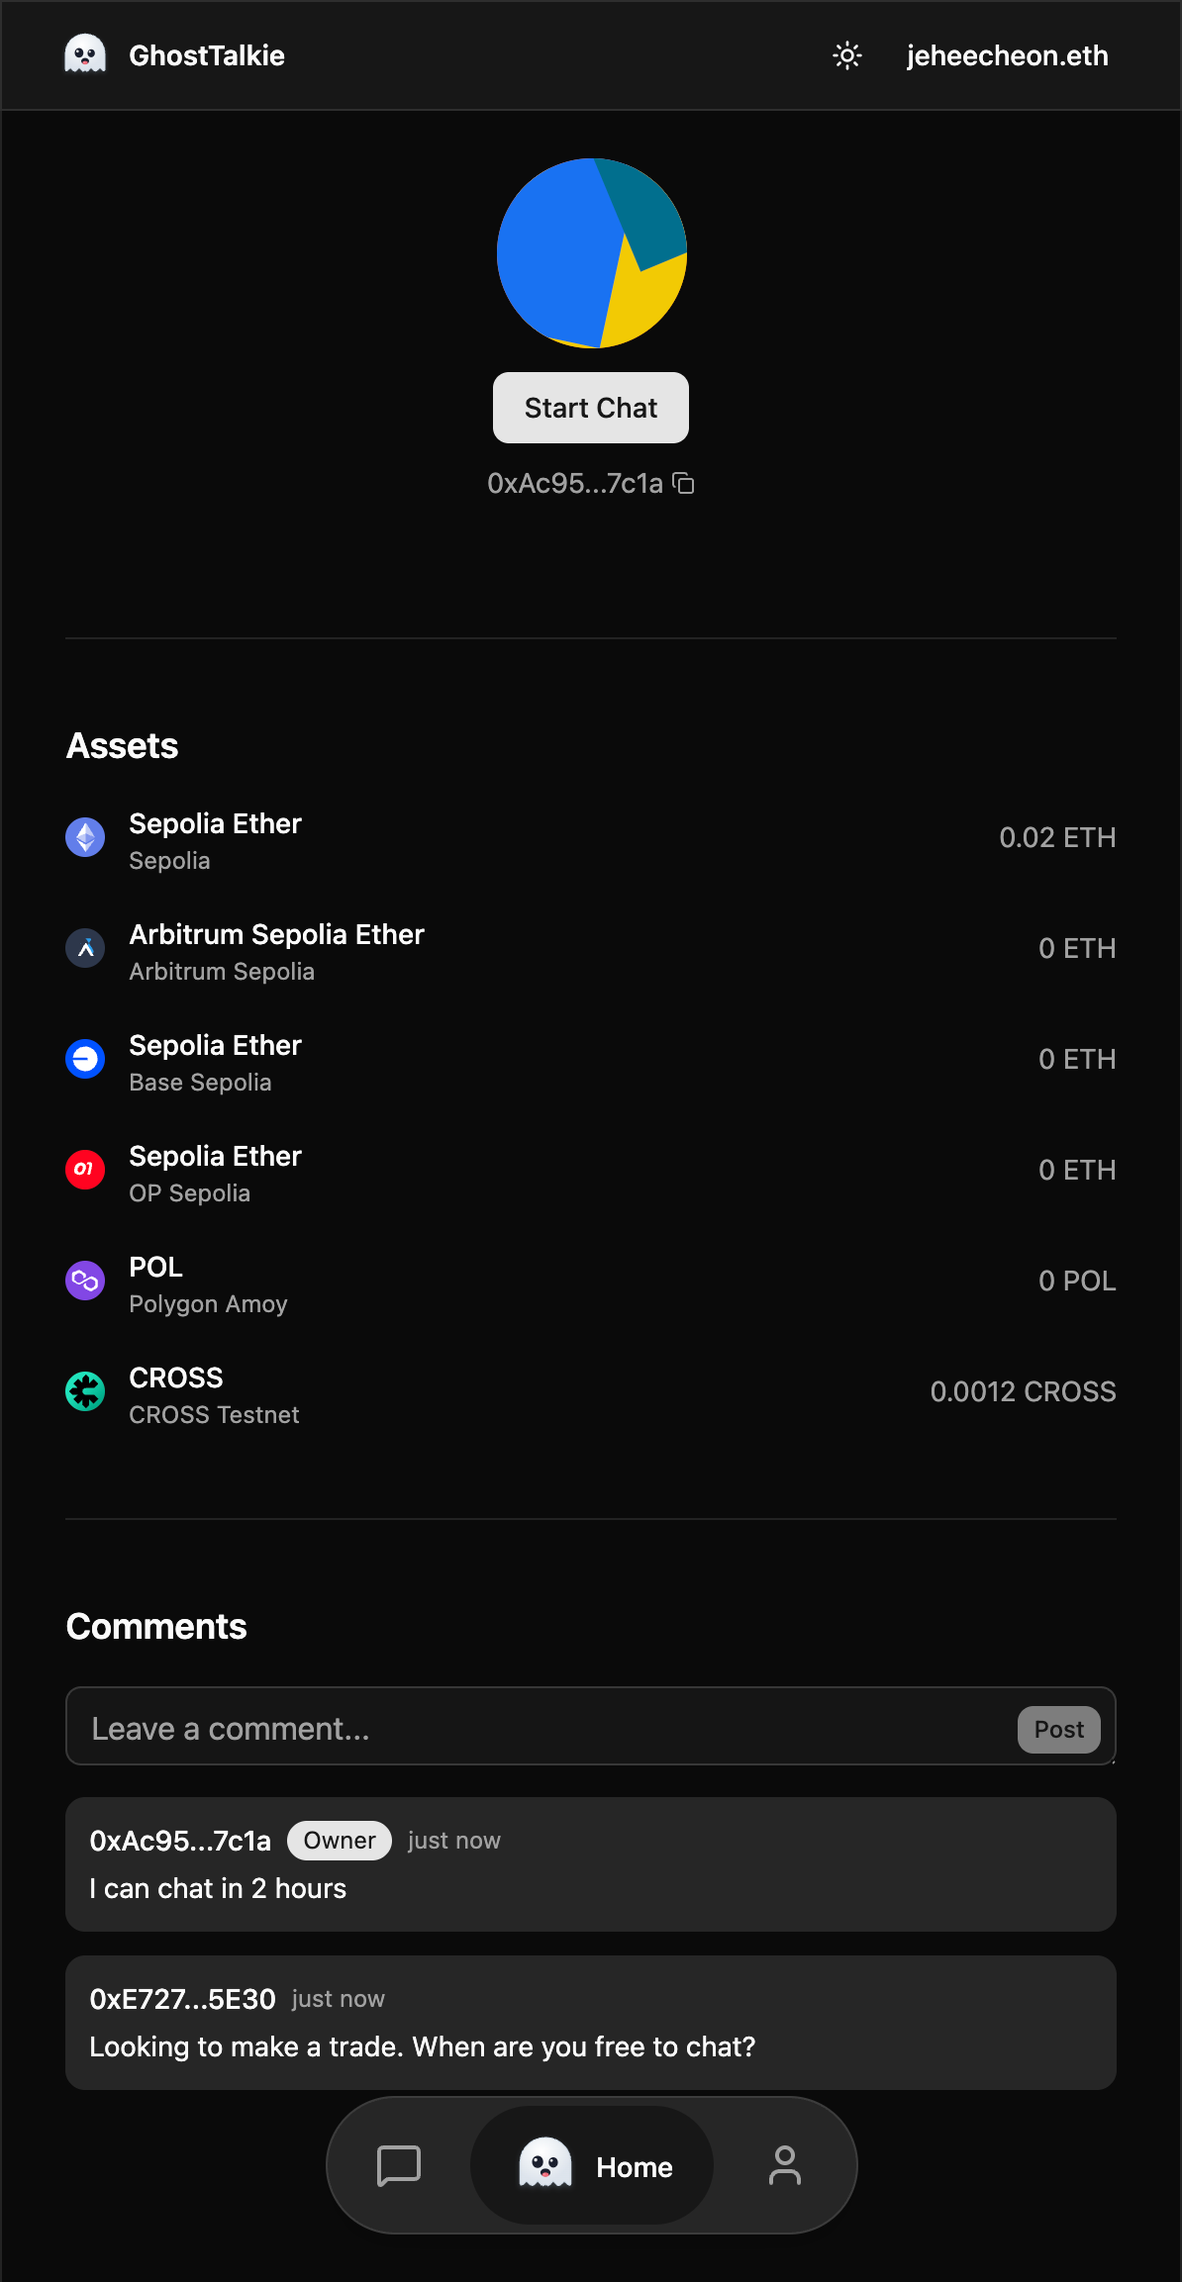
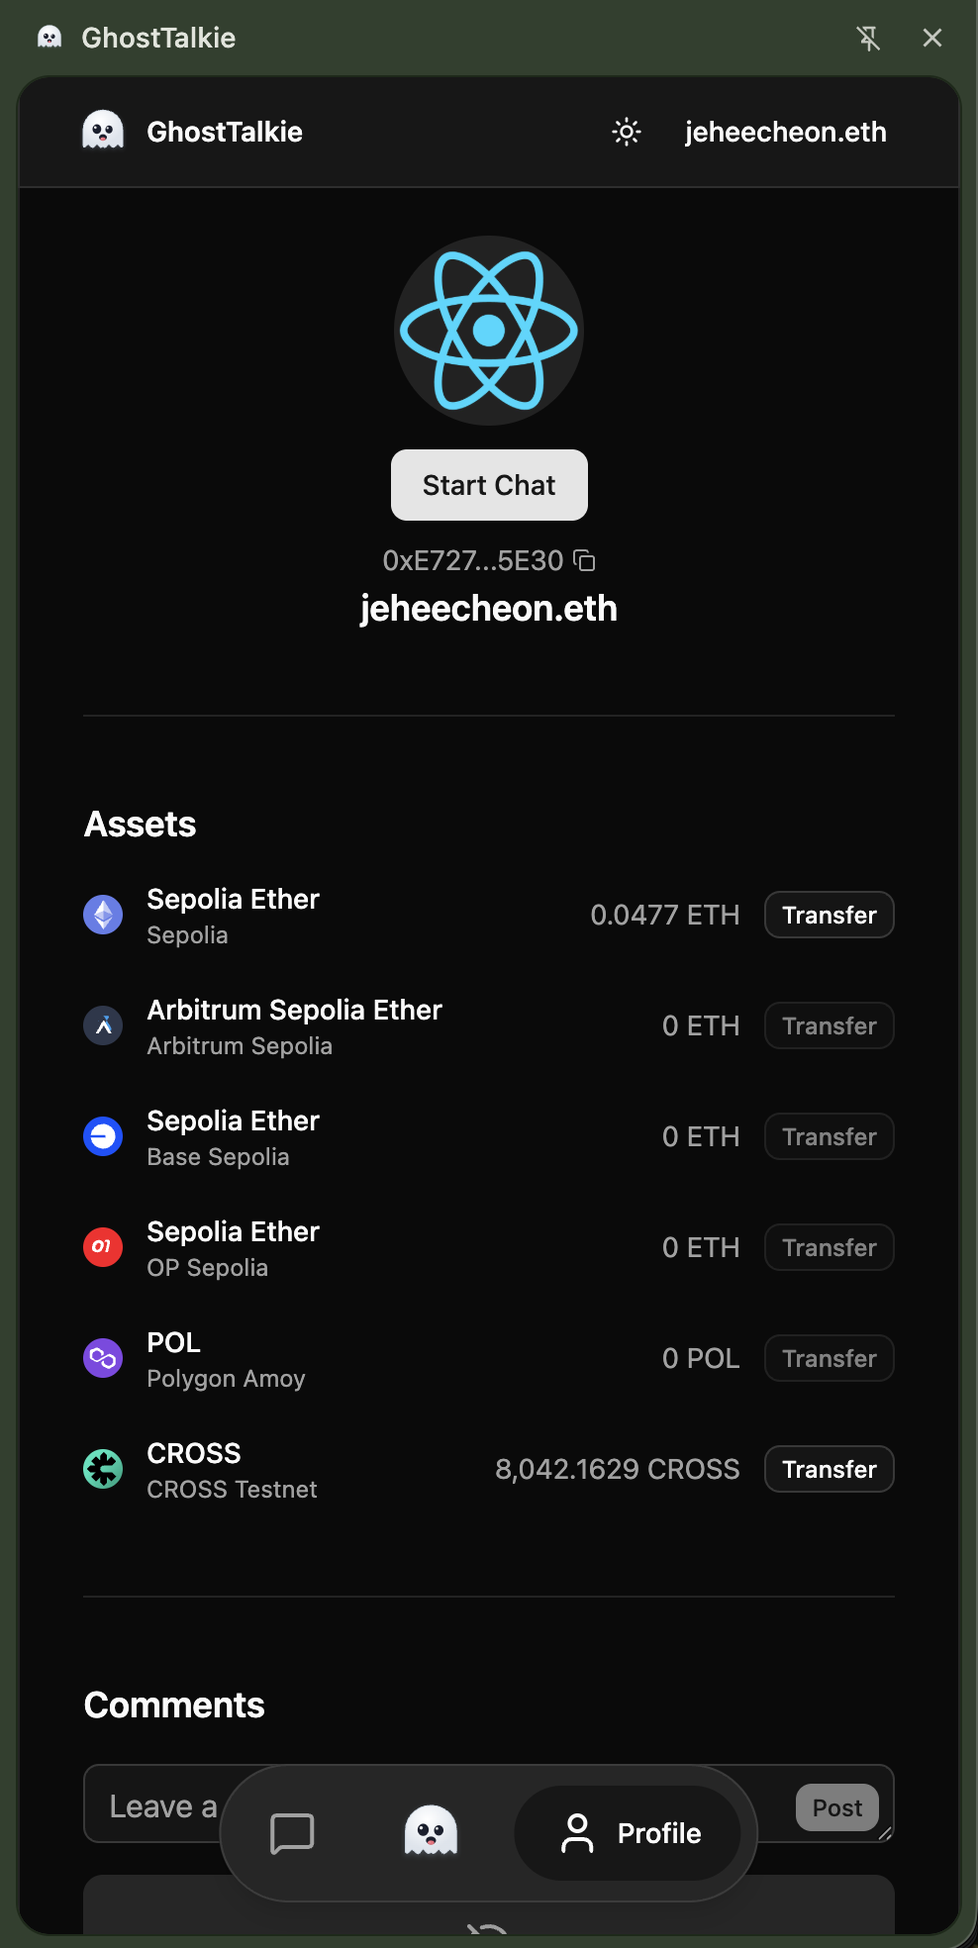
chore: rewrite readme for portfolio and chrome web store readiness

diff --git a/README.md b/README.md
@@ -1,30 +1,158 @@
 # GhostTalkie
 
-A fully serverless P2P chat application where your Ethereum wallet is your identity. No backend, no database — just static files, WebRTC, and public Nostr relays.
+Serverless P2P chat where your Ethereum wallet is your identity. No backend, no database, no accounts — just WebRTC for direct peer connections, Nostr relays (decentralized public message brokers) for connection setup, and cryptographic signatures for identity.
 
-**[Live Demo](https://jeheecheon.github.io/ghost-talkie)**
+**[Live Demo](https://jeheecheon.github.io/ghost-talkie)** · Chrome Extension (Coming Soon)
 
 <p align="center">
   <img src=".github/assets/example-profile.png" alt="Wallet Profile" width="280" />
   &nbsp;&nbsp;&nbsp;&nbsp;
+  <img src=".github/assets/example-search.png" alt="Search" width="280" />
+  &nbsp;&nbsp;&nbsp;&nbsp;
   <img src=".github/assets/example-chat.png" alt="P2P Chat" width="280" />
 </p>
 
-## Why
-
-Most chat apps require accounts, servers, and infrastructure that costs money to run. GhostTalkie explores a different approach: what if a real-time chat application could run at **zero infrastructure cost** while still providing cryptographic identity verification?
-
-By combining WebRTC for direct peer-to-peer communication, Nostr relays for signaling and async comments, and Ethereum wallet signatures for authentication, GhostTalkie achieves this with no custom backend at all.
+---
 
 ## Features
 
-- **P2P Real-time Chat** — Text and voice communication directly between peers via WebRTC (up to 5 participants, mesh topology)
-- **Wallet-based Identity** — No signup. Connect your Ethereum wallet, and your address becomes your identity
-- **Cryptographic Verification** — Each peer signs a proof message; signatures are exchanged and verified on connect. Impersonation is impossible
-- **Profile Comments via Nostr** — When a user is offline, visitors can leave comments stored on public Nostr relays
-- **Multi-chain Token Balances** — View native token balances across Ethereum, Arbitrum, Base, Optimism, Polygon, and CROSS networks
-- **Native Token Transfer** — Send tokens directly from a wallet profile page with automatic chain switching
-- **Browser Extension** — WXT + React extension that injects chat buttons next to wallet addresses on external sites
+- **No signup required** — Connect your Ethereum wallet and start chatting. Your wallet address is your identity.
+- **Encrypted P2P chat** — Text and voice messages flow directly between peers via WebRTC. Nothing is stored on any server.
+- **Verified identity** — Each participant signs a cryptographic proof with their wallet. Impersonation is impossible.
+- **Profile comments** — Leave messages on any wallet profile, even when the owner is offline. Stored on decentralized Nostr relays.
+- **Multi-chain support** — View native token balances across Ethereum, Arbitrum, Base, Optimism, Polygon, and CROSS networks.
+- **Token transfer** — Send native tokens directly from a wallet profile page with automatic chain switching.
+- **Chrome extension** — Chat button appears next to wallet addresses on OpenSea, Blur, and CrossNFT. Chat without leaving the marketplace.
+- **Zero cost** — No backend, no database, no paid services. Runs entirely on public infrastructure (GitHub Pages, Nostr relays, STUN servers).
+
+---
+
+## Motivation
+
+Most chat apps require signup, servers, and infrastructure. GhostTalkie explores a different model: **what if real-time communication could work at zero infrastructure cost with stronger identity guarantees than email/password?**
+
+By using wallet signatures as identity proof and public Nostr relays for signaling, there is no server to operate, no database to maintain, and no auth system to build. The total running cost is $0 at any scale.
+
+---
+
+## How It Works
+
+A user opens an NFT marketplace (OpenSea, Blur, etc.), sees a wallet address, and clicks the "Chat Anonymously" button injected by the extension. A side panel opens with the full chat interface. Both users sign a short identity proof with their wallet, the signatures are exchanged and verified over an encrypted WebRTC connection, and a direct peer-to-peer chat session begins — no server involved.
+
+If the other party is offline, the visitor can leave a comment on their wallet profile. Comments are stored on public Nostr relays (decentralized message boards), not on any server we control.
+
+---
+
+## Identity Verification
+
+Each chat room is tied to an Ethereum wallet address. The person whose address it is is the **room host**; anyone who initiates a chat is a **visitor**.
+
+```
+Room Host                                      Visitor
+  │                                               │
+  ├─ Connect wallet                               │
+  ├─ Open chat room on /{address}                 │
+  │   └─ Sign identity proof with wallet          │
+  │       ("I am the host of this room")          │
+  │                                               ├─ Visit /{hostAddress}
+  │                                               ├─ Connect wallet
+  │                                               ├─ Click "Chat"
+  │                                               │   └─ Sign identity proof with wallet
+  │                                               │       ("I am a visitor to this room")
+  │◄──────── WebRTC connection established ──────►│
+  │◄──────── Exchange & verify proofs ───────────►│
+  │                                               │
+  ├─ See visitor's verified address               ├─ Waiting for approval
+  ├─ Accept or Reject                             │
+  │                                               │
+  │◄════════ Encrypted P2P chat (text/voice) ════►│
+```
+
+Each peer signs a role-specific message with their wallet private key. The signed message is exchanged over WebRTC and verified against the claimed wallet address across all supported chains. Invalid signatures immediately terminate the connection — impersonation is impossible without the private key.
+
+### Comment Identity (Nostr Two-Signature Scheme)
+
+When a user posts a profile comment, their wallet signs twice:
+
+1. **Seed signature** (private) — Used to deterministically generate a pseudonymous identity (a Nostr keypair). This signature is never shared with anyone.
+2. **Ownership proof** (public) — Proves that a specific Ethereum wallet created this pseudonymous identity. This signature is attached to the comment as a verifiable link.
+
+The result: the same wallet always produces the same comment identity, comments are verifiably linked to an on-chain address, and the wallet's signing key is never directly exposed.
+
+---
+
+## Browser Extension
+
+The Chrome extension is the primary interface. It detects wallet addresses on NFT marketplace pages (OpenSea, Blur, CrossNFT) and injects a "Chat Anonymously" button next to each one. Clicking the button opens Chrome's side panel with the full chat experience — without leaving the marketplace.
+
+### Extension Architecture
+
+```
+┌─ Marketplace Page (opensea.io) ──────────────────────────────────────┐
+│                                                                      │
+│  Content Script (MAIN world)           Content Script (ISOLATED)     │
+│  ┌──────────────────────────┐         ┌────────────────────────────┐ │
+│  │ Browser Wallet Detector  │◄─ msg ─►│ Message Relay              │ │
+│  │ (EIP-6963 standard)      │         │ (bridges security worlds)  │ │
+│  └──────────────────────────┘         └────────────┬───────────────┘ │
+│                                                    │                 │
+│  Injector Script                                   │                 │
+│  ┌──────────────────────────┐                      │                 │
+│  │ "Chat Anonymously" btn   │                      │                 │
+│  │ (Shadow DOM isolated)    │                      │                 │
+│  └──────────┬───────────────┘                      │                 │
+└─────────────┼──────────────────────────────────────┼─────────────────┘
+              │ click                     chrome.runtime.sendMessage
+              ▼                                      ▼
+     ┌──────────────────────────────────────────────────────┐
+     │              Background Service Worker               │
+     │  ┌────────────────────┐  ┌─────────────────────────┐ │
+     │  │ Navigation Manager │  │ Wallet RPC Relay        │ │
+     │  │ (opens side panel) │  │ (tab ↔ sidepanel bridge)│ │
+     │  └────────┬───────────┘  └─────────────────────────┘ │
+     └───────────┼──────────────────────────────────────────┘
+                 │ chrome.sidePanel.open()
+                 ▼
+     ┌──────────────────────────────────┐
+     │     Side Panel (React App)       │
+     │  ┌────────┬─────────┬──────────┐ │
+     │  │  Home  │  Chat   │ Profile  │ │
+     │  └────────┴─────────┴──────────┘ │
+     │  Wallet connection proxy         │
+     │  → wagmi connector               │
+     │  → Trystero P2P rooms            │
+     │  → Nostr comment client          │
+     └──────────────────────────────────┘
+```
+
+### Key Design Decisions
+
+**Wallet Bridge Across Security Worlds** — Chrome extensions run content scripts in two isolated environments (MAIN and ISOLATED worlds) that cannot share JavaScript objects. The extension needs access to the host page's wallet (MetaMask, etc.), but the wallet provider lives in the MAIN world while extension messaging only works in the ISOLATED world. A three-layer relay system solves this:
+
+1. **MAIN world** script detects browser wallets using the EIP-6963 standard (a wallet discovery API)
+2. **ISOLATED world** script relays messages between the MAIN world and the background
+3. **Background service worker** bridges the wallet connection to the side panel
+
+This allows wallet operations (signing, chain switching) from within the side panel without requiring a separate wallet connection.
+
+**Shadow DOM for Button Injection** — Chat buttons are injected inside Shadow DOM to prevent style interference from marketplace page CSS. A MutationObserver watches for dynamically loaded content to inject buttons on newly rendered elements.
+
+**Side Panel API over Popup** — Chrome's Side Panel provides a persistent UI that survives page navigation, unlike popups that close on any click outside. Essential for maintaining chat sessions while browsing.
+
+---
+
+## Technical Decisions
+
+| Decision                              | Options Considered                                                       | Why Chosen                                                                                                   | Tradeoff                                                         |
+| ------------------------------------- | ------------------------------------------------------------------------ | ------------------------------------------------------------------------------------------------------------ | ---------------------------------------------------------------- |
+| **Nostr relays for WebRTC signaling** | Custom WebSocket server, Firebase, Nostr relays                          | Zero-config, zero-cost, censorship-resistant. 8KB bundle via Trystero                                        | Higher signaling latency (~500ms vs ~100ms for dedicated server) |
+| **Wallet signatures for identity**    | Email/password, OAuth, wallet signatures                                 | Eliminates entire auth backend. Cryptographic proof is unforgeable                                           | Requires users to have an Ethereum wallet                        |
+| **Nostr protocol for comments**       | Firebase Realtime DB, Supabase, custom API                               | Free public infrastructure with no account required. Retention handled by relay operators                    | Data persistence depends on relay policies (days to months)      |
+| **Monorepo with domain package**      | Single app, separate repos, monorepo                                     | P2P and Nostr logic is pure TypeScript (no React). Reusable across web app and extension without duplication | Initial setup complexity                                         |
+| **Zustand over Context API**          | React Context, Redux, Zustand                                            | Minimal boilerplate, built-in localStorage persistence, no provider nesting for cross-component chat state   | External dependency for state management                         |
+| **Manifest V3 with WXT**              | Raw Manifest V3, Plasmo (extension framework), WXT (extension framework) | File-based entrypoints, HMR, auto-generates manifest from code. Closest to native Chrome extension DX        | WXT is less mature than Plasmo ecosystem                         |
+
+---
 
 ## Architecture
 
@@ -32,79 +160,37 @@ By combining WebRTC for direct peer-to-peer communication, Nostr relays for sign
 ghosttalkie/
 ├── apps/
 │   ├── web/                  # React Router v7 SPA (main web app)
-│   └── extension/            # Browser extension (WXT + React)
+│   └── extension/            # Chrome extension (WXT + React)
 ├── packages/
-│   ├── domain/               # Core business logic
-│   │   ├── p2p/              #   WebRTC chat rooms, proof exchange
-│   │   └── nostr/            #   Nostr identity, comments
+│   ├── domain/               # Core business logic (no React dependency)
+│   │   ├── p2p/              #   WebRTC chat rooms, identity proof exchange
+│   │   ├── nostr/            #   Nostr client, comment identity derivation
+│   │   └── wallet/           #   Chain config, signature utilities
 │   ├── ui/                   # Shared React components and hooks
-│   ├── lib/                  # Shared utilities
+│   ├── lib/                  # Pure utilities (cn, assert, ensure)
 │   ├── types/                # Shared TypeScript types
-│   ├── eslint-config/        # Shared ESLint configuration
-│   └── tsconfig/             # Shared TypeScript configuration
+│   ├── eslint-config/        # Shared ESLint presets
+│   └── tsconfig/             # Shared TypeScript configurations
 └── turbo.json
 ```
 
-The monorepo separates **domain logic** (P2P, Nostr) from **UI components**, allowing the web app and browser extension to share the same core without duplication.
+**Dependency Direction** — Imports flow strictly downward: `types` → `lib` → `domain` → `ui` → `apps`. The `domain` package has zero React dependency, making P2P and Nostr logic testable and reusable in any JavaScript runtime.
 
-## Tech Decisions
+---
 
-| Decision | Why |
-|---|---|
-| **Trystero (Nostr strategy)** for P2P | Zero-config WebRTC signaling over public Nostr relays — no signaling server needed, 8KB bundle |
-| **Wallet signatures** for auth | Eliminates the entire auth backend. Cryptographic proof is stronger than email/password |
-| **Nostr protocol** for comments | Free, censorship-resistant storage on public relays. No database to maintain |
-| **Monorepo with domain package** | P2P and Nostr logic is framework-agnostic, reusable across web app and browser extension |
+## Security
 
-## Tech Stack
+| Threat                   | Mitigation                                                                                               |
+| ------------------------ | -------------------------------------------------------------------------------------------------------- |
+| Room impersonation       | Wallet signature verification on every peer connect. Cannot forge without the private key                |
+| Comment identity forgery | Two-layer signing: Nostr event signature + wallet ownership proof. Seed signature never published        |
+| Man-in-the-middle        | WebRTC built-in encryption (DTLS) + wallet signature verification on both endpoints                      |
+| XSS in chat messages     | Messages rendered as plain text nodes, never as HTML                                                     |
+| Extension style leakage  | Chat buttons isolated via Shadow DOM on marketplace pages                                                |
+| Host page wallet theft   | Content scripts cannot access extension storage. Wallet proxy only relays explicitly requested RPC calls |
 
-| Layer | Technology |
-|---|---|
-| Framework | React Router v7 (Vite, CSR) |
-| Styling | Tailwind CSS v4 + shadcn/ui |
-| P2P | Trystero (WebRTC via Nostr relays) |
-| Wallet | wagmi + viem + Reown AppKit |
-| State | Zustand (persisted via localStorage) |
-| Data Fetching | TanStack React Query |
-| Build | Turborepo + pnpm workspaces |
-| Deploy | GitHub Pages |
+---
 
-## How It Works
+## License
 
-```
-Owner                                          Visitor
-  │                                               │
-  ├─ Connect wallet                                │
-  ├─ Open chat room on /{address}                  │
-  │   └─ Sign chat proof (1 signature)             │
-  │                                               ├─ Visit /{ownerAddress}
-  │                                               ├─ Connect wallet
-  │                                               ├─ Click "Chat"
-  │                                               │   └─ Sign chat proof (1 signature)
-  │◄──────── WebRTC connection established ───────►│
-  │◄──────── Exchange & verify proofs ────────────►│
-  │                                               │
-  ├─ See visitor's verified address                ├─ Waiting for approval
-  ├─ Accept or Reject                              │
-  │                                               │
-  │◄════════ Encrypted P2P chat (text/voice) ═════►│
-```
-
-## Cost
-
-| Component | Cost |
-|---|---|
-| Hosting (GitHub Pages) | $0 |
-| Signaling (public Nostr relays) | $0 |
-| Comments storage (Nostr relays) | $0 |
-| P2P data transfer | $0 |
-| **Total** | **$0** |
-
-## Getting Started
-
-```bash
-pnpm install
-pnpm dev
-```
-
-Requires Node.js >= 20 and pnpm.
+MIT
